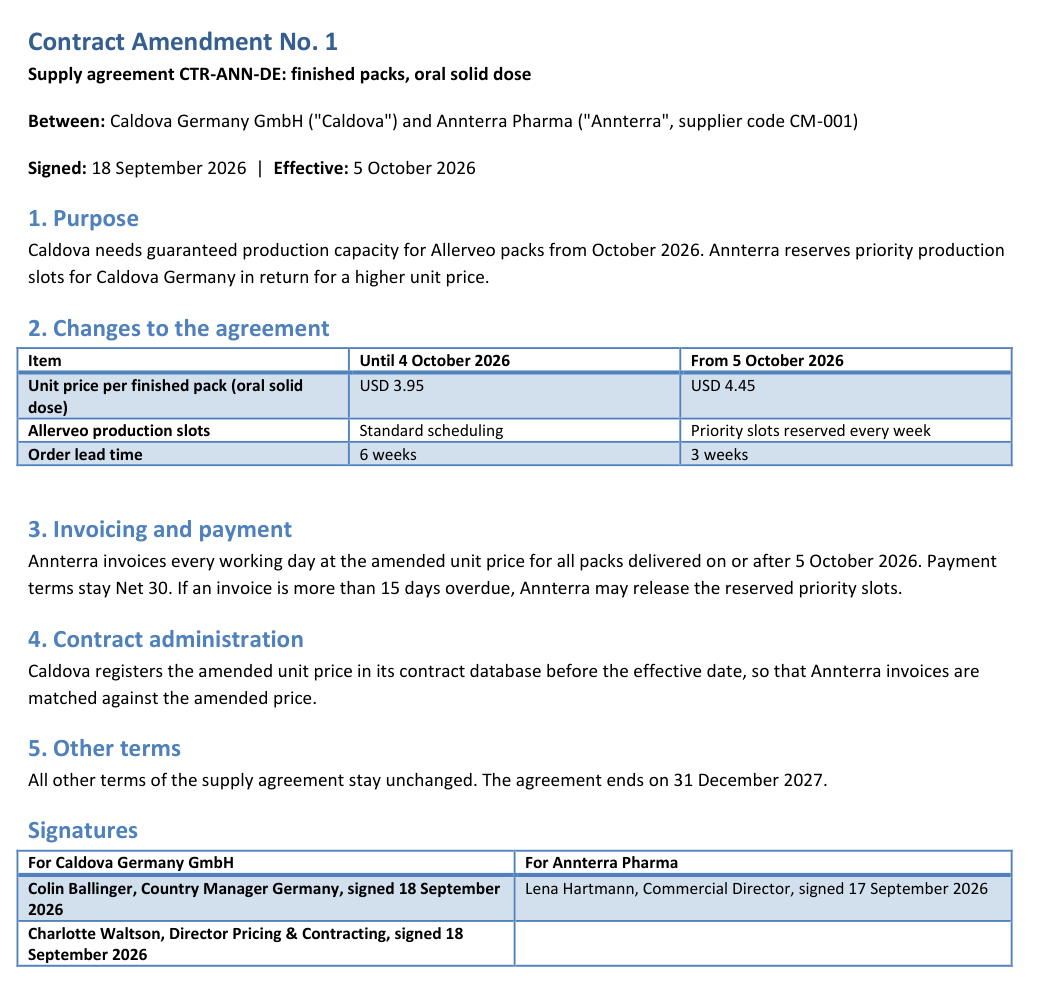
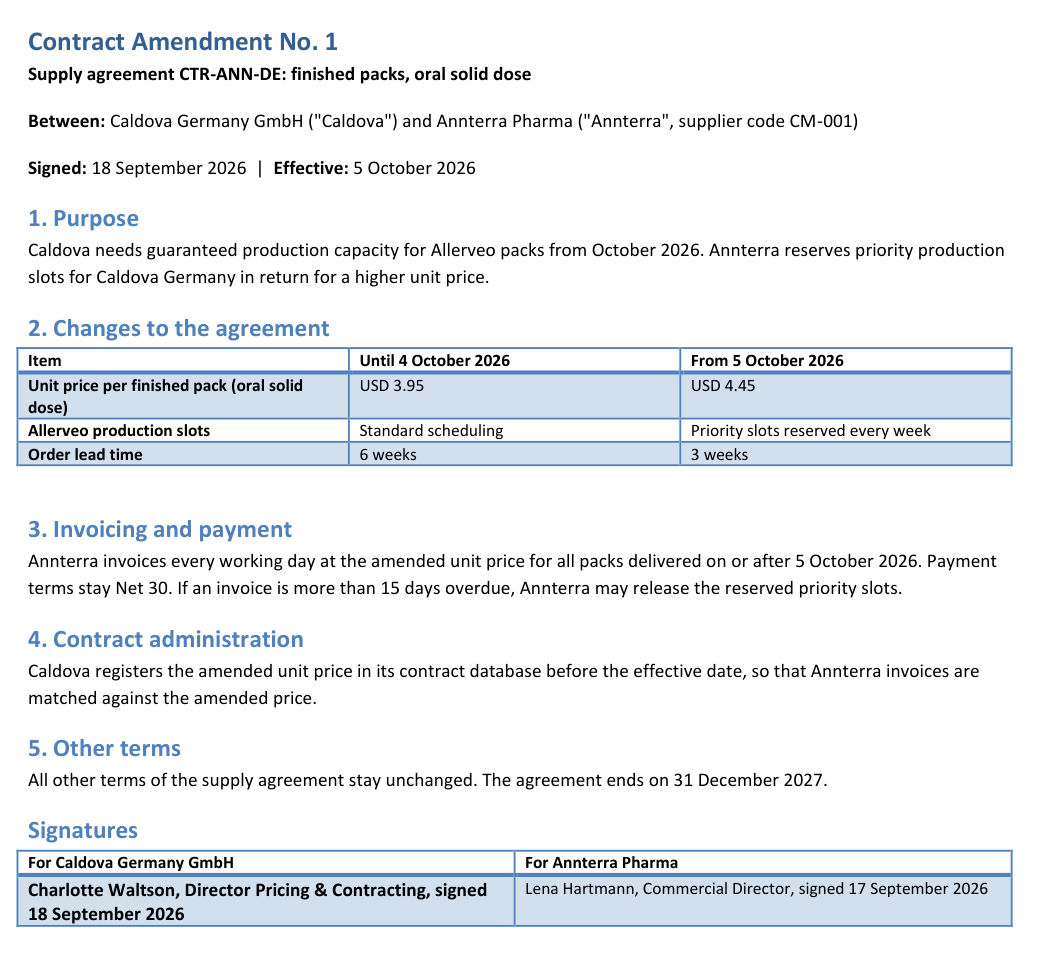
Amendment: Charlotte signs alone for Caldova Germany
Remove Colin's signature from the seed amendment (docx, md and image) and
note in the README that the file sits in Colin's OneDrive only for demo
simplicity.

diff --git a/README.md b/README.md
@@ -32,9 +32,11 @@ Caldova is a fictional pharma company. It makes its medicine, Allerveo, in its o
 
 ![Supplier Invoice Assurance report, Germany only: invoice accuracy 71.7% (was 100%), 15 flagged Annterra invoices, $16.5K overbilled, $147.1K payments AP will block](images/report-colin-germany.png)
 
-**The signed amendment** ([seed-content](seed-content), uploaded to *Colin*'s OneDrive). The report knows nothing about it:
+**The signed amendment** ([seed-content](seed-content)). The report knows nothing about it:
 
-![Contract Amendment No. 1: $3.95 until 4 October 2026, $4.45 from 5 October 2026, signed 18 September 2026](images/contract-amendment.png)
+![Contract Amendment No. 1: $3.95 until 4 October 2026, $4.45 from 5 October 2026, signed by Charlotte Waltson on 18 September 2026](images/contract-amendment.png)
+
+> **Note:** *Charlotte* signed the amendment for Caldova Germany. For simplicity, the demo stores it in *Colin*'s OneDrive. In a real company it would be in a shared contracts folder, for example a SharePoint document library that *Colin* can access.
 
 ## The demo overview
 

diff --git a/seed-content/Annterra Pharma - Caldova Germany - Contract Amendment No 1.md b/seed-content/Annterra Pharma - Caldova Germany - Contract Amendment No 1.md
@@ -34,5 +34,4 @@ All other terms of the supply agreement stay unchanged. The agreement ends on 31
 
 | For Caldova Germany GmbH | For Annterra Pharma |
 |---|---|
-| Colin Ballinger, Country Manager Germany, signed 18 September 2026 | Lena Hartmann, Commercial Director, signed 17 September 2026 |
-| Charlotte Waltson, Director Pricing & Contracting, signed 18 September 2026 | |
+| Charlotte Waltson, Director Pricing & Contracting, signed 18 September 2026 | Lena Hartmann, Commercial Director, signed 17 September 2026 |
